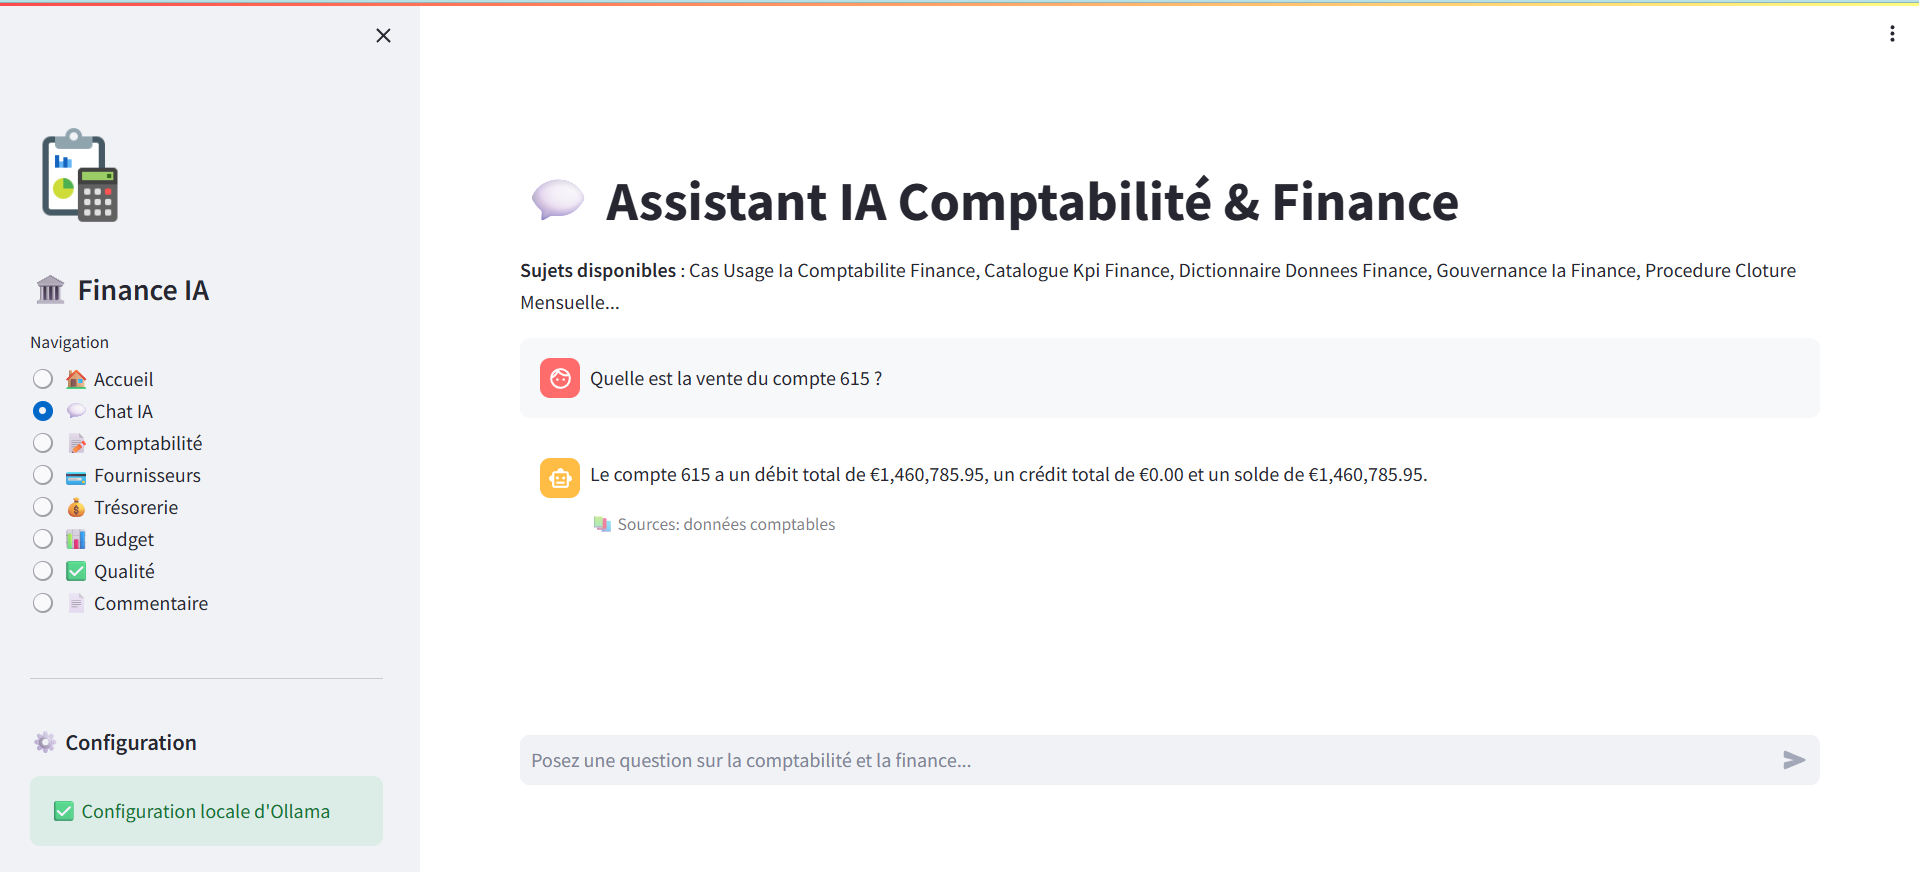
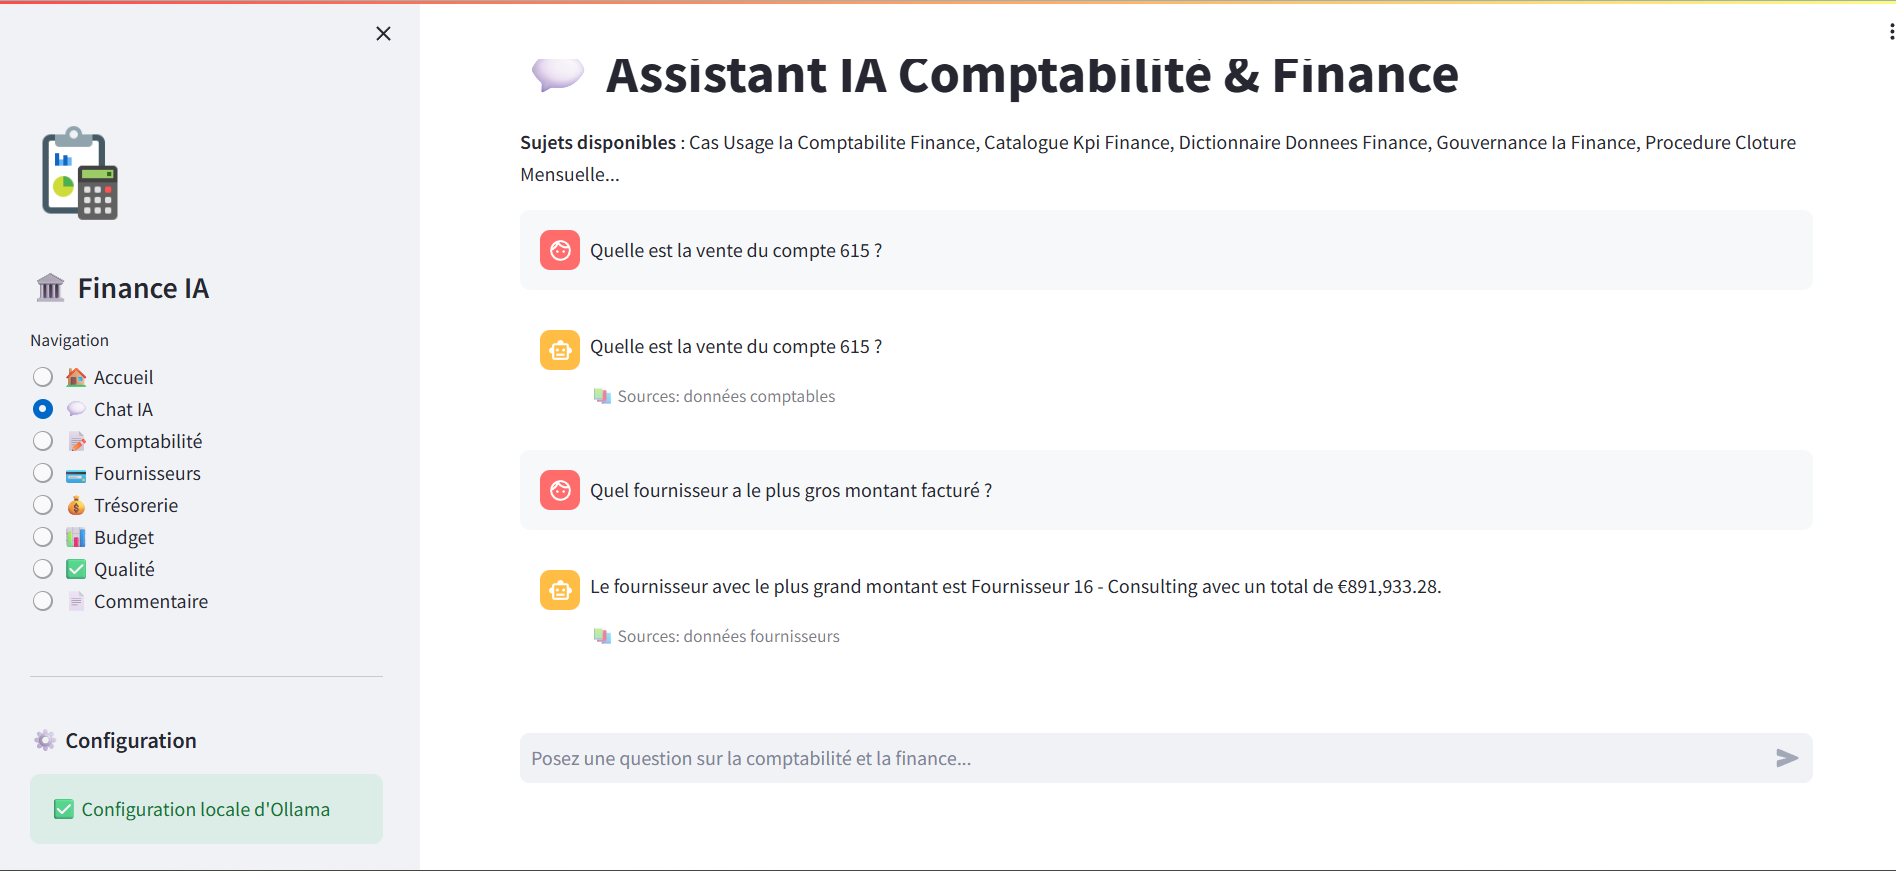
docs: réorganisation des captures d'écran et mise à jour du README

diff --git a/README.md b/README.md
@@ -373,7 +373,7 @@ enterprise-ai-accounting-finance-assistant/
 
 - **Accueil** : [assets/screenshots/01_accueil.png](assets/screenshots/01_accueil.png)
 - **Chat IA** : [assets/screenshots/02_chat_ia.png](assets/screenshots/02_chat_ia.png)
-- Dossier complet des captures : `captures d'images/` (contient des captures d'écran supplémentaires montrant les vues Comptabilité, Fournisseurs, Trésorerie, Budget, etc.).
+- Dossier complet des captures : `assets/screenshots/` (contient des captures d'écran supplémentaires montrant les vues Comptabilité, Fournisseurs, Trésorerie, Budget, etc.).
 
 
 ## 🔧 Configuration Avancée